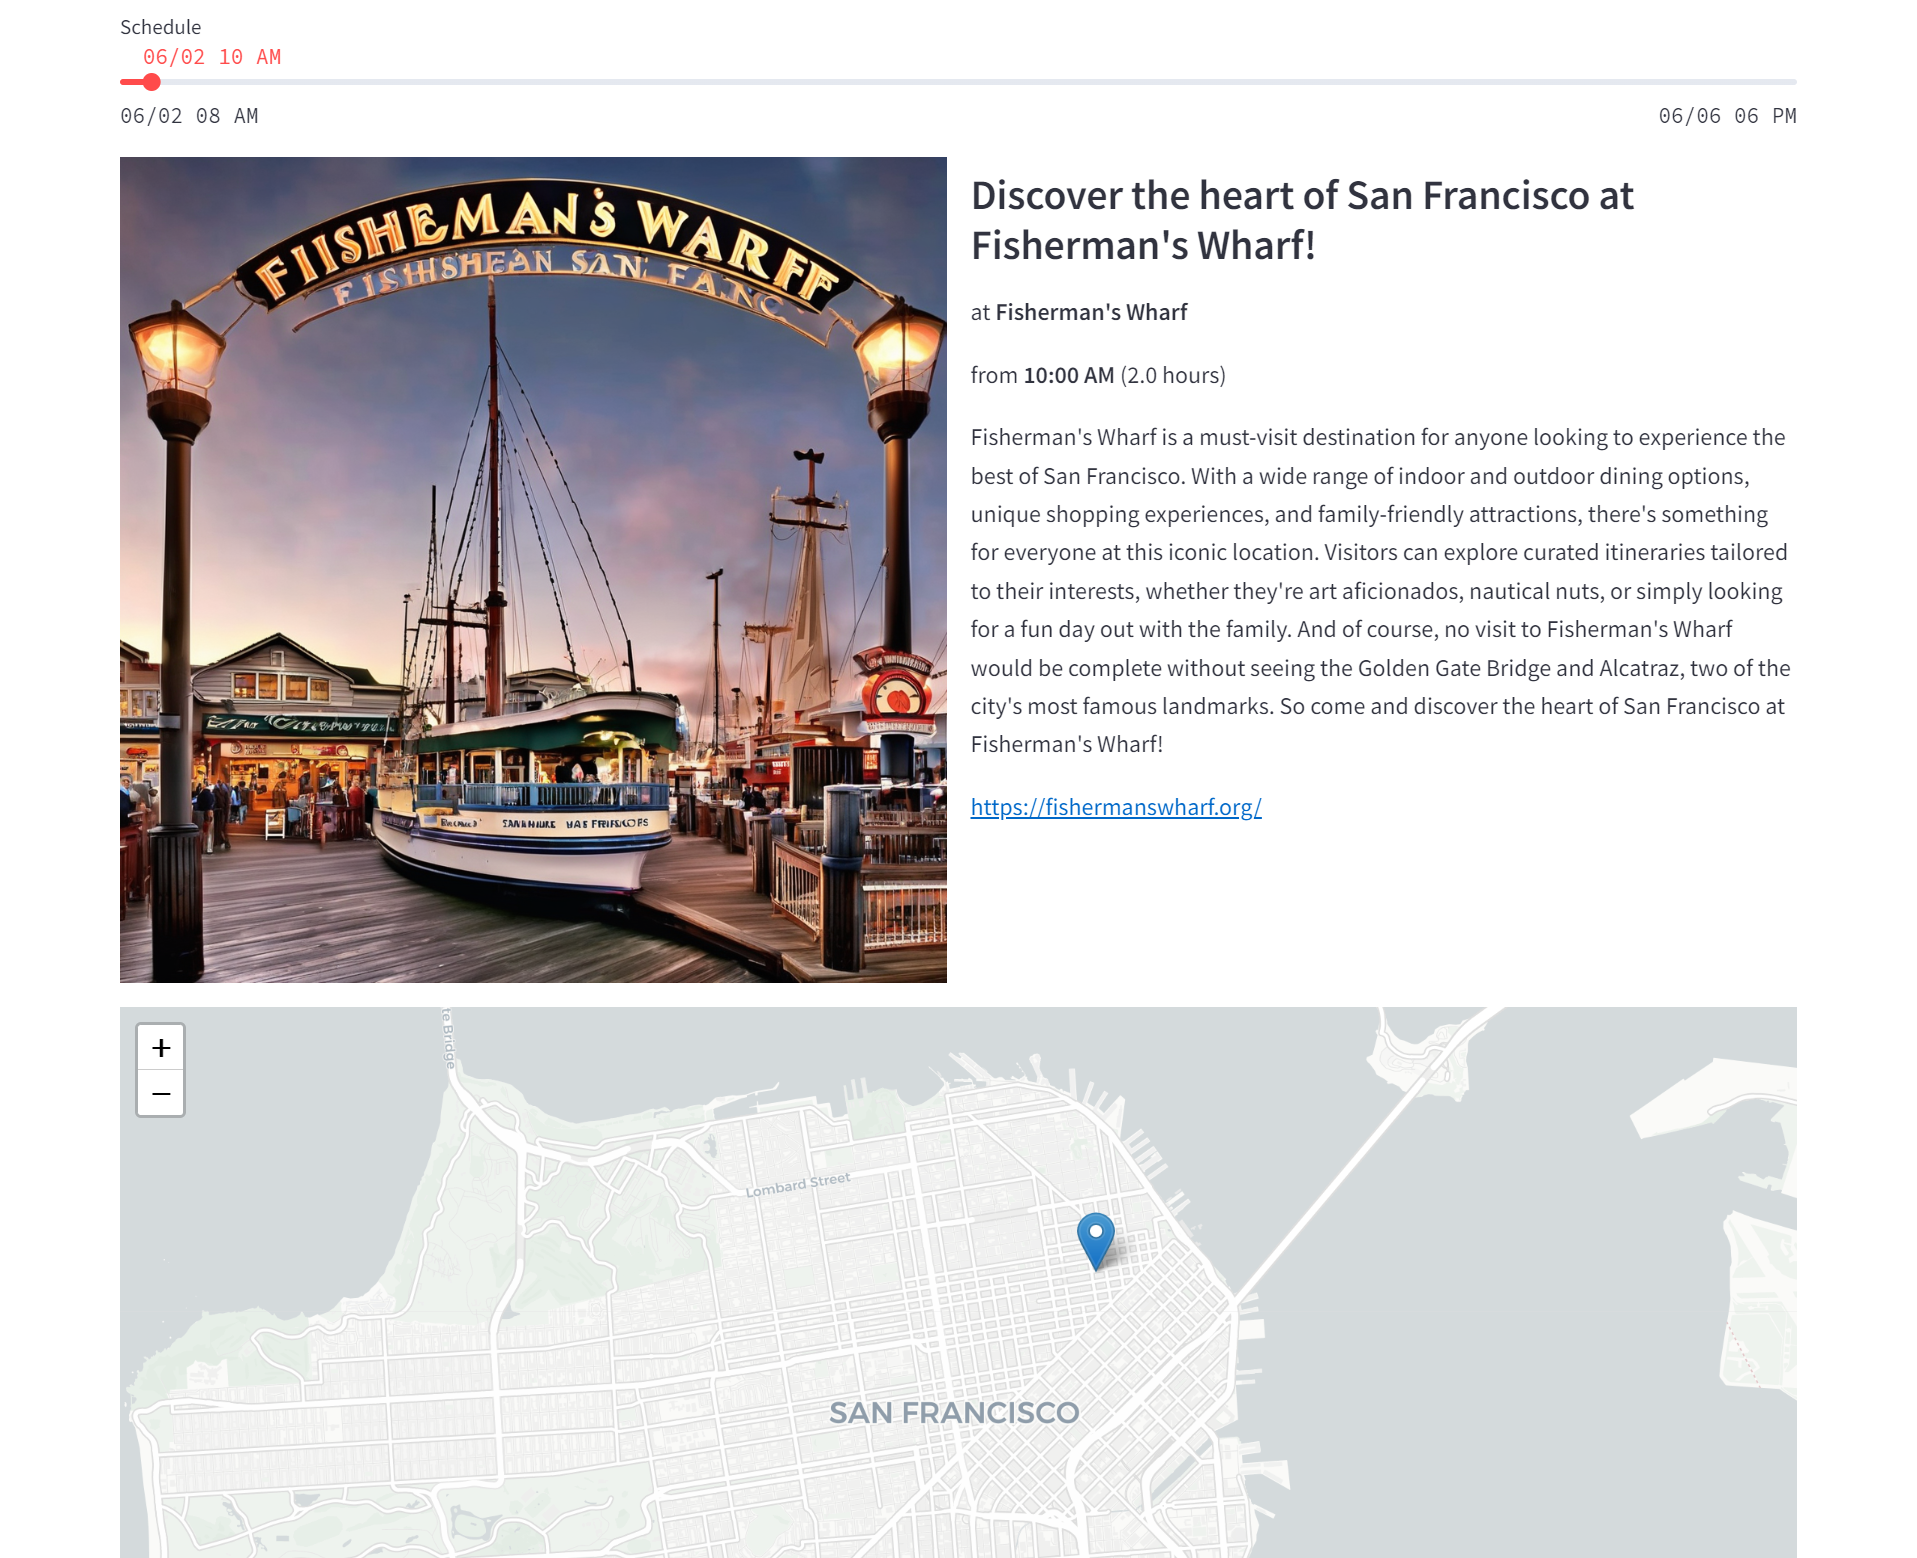
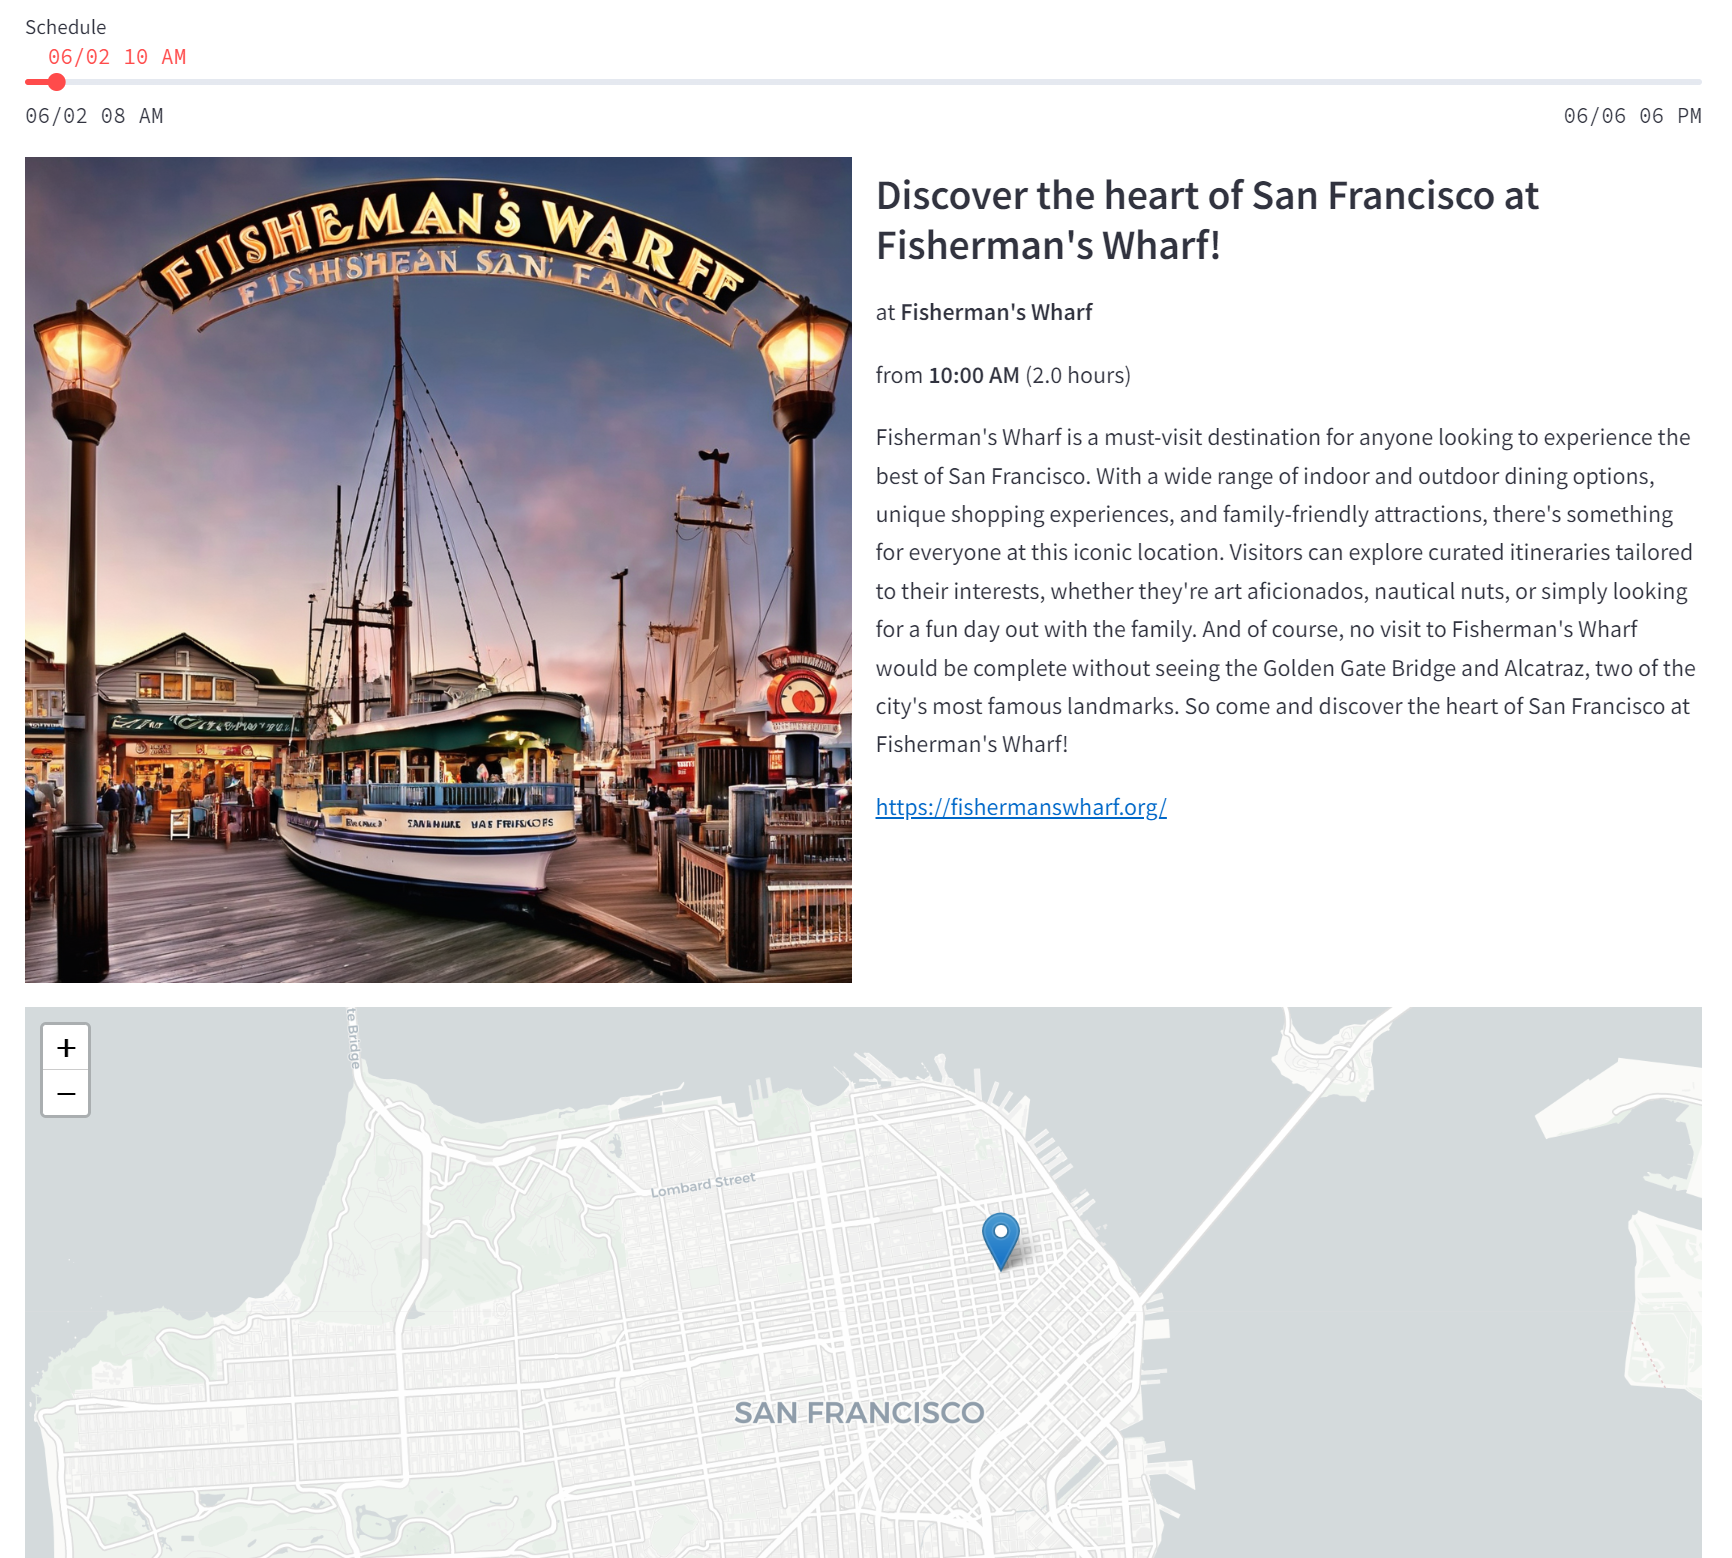
Fix image size.

diff --git a/demo/home.py b/demo/home.py
@@ -51,7 +51,7 @@ It listens to the user's requests in a chat format and creates a trip plan based
 ## Sample UI
 '''
 
-col1, col2 = st.columns([1, 4])
+col1, col2 = st.columns([1, 2])
 with col1:
     st.caption('Chat UI')
     st.image("./resources/imgs/app_image_chat.png")
